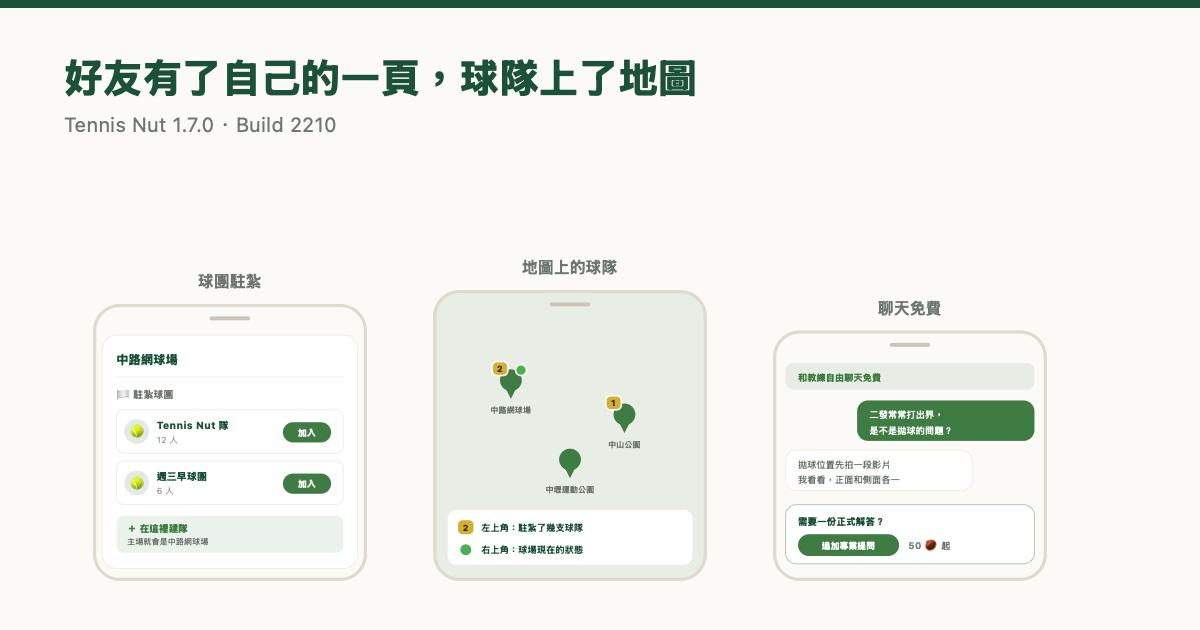
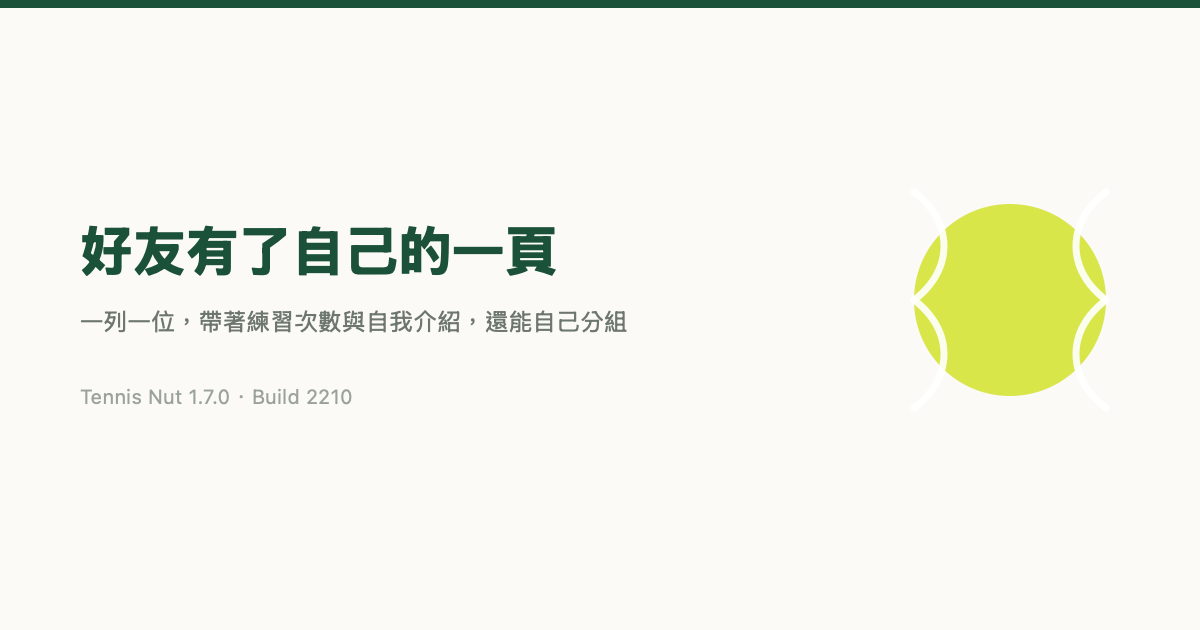
2210 那則拿掉球隊——那批功能不在這顆 build 裡
寫更新紀錄時我把「球隊上了地圖、隊內動態牆」列成 2210 的亮點，但那些 commit
都在 1.7.0+2210 這顆 release commit 之後，沒有出貨。對照 git log 才發現。

標題改成「好友有了自己的一頁」，補上一則真的在裡面的：首頁卡片收斂成兩級。
分享圖跟著改成純文字版，原本那張放的是球隊的畫面。

球隊那批留給下一版。

diff --git a/blog/2210.html b/blog/2210.html
@@ -3,11 +3,11 @@
 <head>
   <meta charset="UTF-8" />
   <meta name="viewport" content="width=device-width, initial-scale=1.0" />
-  <title>好友有了自己的一頁，球隊上了地圖 · Tennis Nut 1.7.0</title>
-  <meta name="description" content="好友從護照裡的一小塊變成一整頁，還能自己分組；球隊的隊徽出現在地圖上，隊內動態也開始長出來。" />
+  <title>好友有了自己的一頁 · Tennis Nut 1.7.0</title>
+  <meta name="description" content="好友從護照裡的一小塊變成一整頁，還能自己分組；推播權限改在你會需要它的時候才問。" />
   <meta property="og:type" content="article" />
-  <meta property="og:title" content="好友有了自己的一頁，球隊上了地圖 · Tennis Nut 1.7.0" />
-  <meta property="og:description" content="好友從護照裡的一小塊變成一整頁，還能自己分組；球隊的隊徽出現在地圖上，隊內動態也開始長出來。" />
+  <meta property="og:title" content="好友有了自己的一頁 · Tennis Nut 1.7.0" />
+  <meta property="og:description" content="好友從護照裡的一小塊變成一整頁，還能自己分組；推播權限改在你會需要它的時候才問。" />
   <meta property="og:url" content="https://tennisnut.kxon.net/blog/2210" />
   <meta property="og:image" content="https://tennisnut.kxon.net/blog-2210.png" />
   <meta property="og:image:width" content="1200" />
@@ -131,8 +131,8 @@
   <article class="container rel">
     <a class="rel-back" href="/blog">← 所有更新</a>
     <span class="tag-line">版本 1.7.0 · Build 2210 · 2026.09.06</span>
-    <h1>好友有了自己的一頁，球隊上了地圖</h1>
-    <p class="rel-lead">好友從護照裡的一小塊變成一整頁，還能自己分組；球隊的隊徽出現在地圖上，隊內動態也開始長出來。</p>
+    <h1>好友有了自己的一頁</h1>
+    <p class="rel-lead">好友從護照裡的一小塊變成一整頁，還能自己分組；推播權限改在你會需要它的時候才問。</p>
 
     <section class="hl">
       <div class="hl-emoji" aria-hidden="true">👥</div>
@@ -143,10 +143,10 @@
       </div>
     </section>
     <section class="hl">
-      <div class="hl-emoji" aria-hidden="true">🏳</div>
+      <div class="hl-emoji" aria-hidden="true">🃏</div>
       <div class="hl-body">
-        <h2>球隊出現在地圖上</h2>
-        <p>地圖多了一個「球隊」檢視：切過去之後，有球團駐紮的球場會直接畫出隊徽，不再只是一個數字角標。球隊裡也多了一面動態牆——隊友記下練習就會出現，不需要誰回報、誰整理。隊長可以把隊長轉移給現有隊員，每人可以建立的球隊也從 2 支放寬到 5 支。</p>
+        <h2>首頁的卡片分出主次</h2>
+        <p>以前每一張卡都各自決定自己要多顯眼，滑下來像一排在互相喊話的看板。現在收斂成兩級：需要你現在處理的（今天的約球、等你確認的比賽）才會被強調，其餘一律安靜。到場面板的時間窗也會自己跨過去，不必手動重新整理。</p>
 
       </div>
     </section>

diff --git a/blog.html b/blog.html
@@ -4,10 +4,10 @@
   <meta charset="UTF-8" />
   <meta name="viewport" content="width=device-width, initial-scale=1.0" />
   <title>最新情報 · Tennis Nut</title>
-  <meta name="description" content="Tennis Nut 的版本更新與功能介紹。最新版 1.7.0：好友從護照裡的一小塊變成一整頁，還能自己分組；球隊的隊徽出現在地圖上，隊內動態也開始長出來。" />
+  <meta name="description" content="Tennis Nut 的版本更新與功能介紹。最新版 1.7.0：好友從護照裡的一小塊變成一整頁，還能自己分組；推播權限改在你會需要它的時候才問。" />
   <meta property="og:type" content="article" />
   <meta property="og:title" content="最新情報 · Tennis Nut" />
-  <meta property="og:description" content="Tennis Nut 的版本更新與功能介紹。最新版 1.7.0：好友從護照裡的一小塊變成一整頁，還能自己分組；球隊的隊徽出現在地圖上，隊內動態也開始長出來。" />
+  <meta property="og:description" content="Tennis Nut 的版本更新與功能介紹。最新版 1.7.0：好友從護照裡的一小塊變成一整頁，還能自己分組；推播權限改在你會需要它的時候才問。" />
   <meta property="og:url" content="https://tennisnut.kxon.net/blog" />
   <meta property="og:image" content="https://tennisnut.kxon.net/blog-2210.png" />
   <meta property="og:image:width" content="1200" />
@@ -138,8 +138,8 @@
       <img src="/blog-2210.png" alt="" />
       <div class="rel-hero-body">
         <span class="rel-badge">最新版本</span>
-        <h3>好友有了自己的一頁，球隊上了地圖</h3>
-        <p>好友從護照裡的一小塊變成一整頁，還能自己分組；球隊的隊徽出現在地圖上，隊內動態也開始長出來。</p>
+        <h3>好友有了自己的一頁</h3>
+        <p>好友從護照裡的一小塊變成一整頁，還能自己分組；推播權限改在你會需要它的時候才問。</p>
         <div class="rel-item-meta">2026.09.06 · 1.7.0 (2210)</div>
       </div>
     </a>
